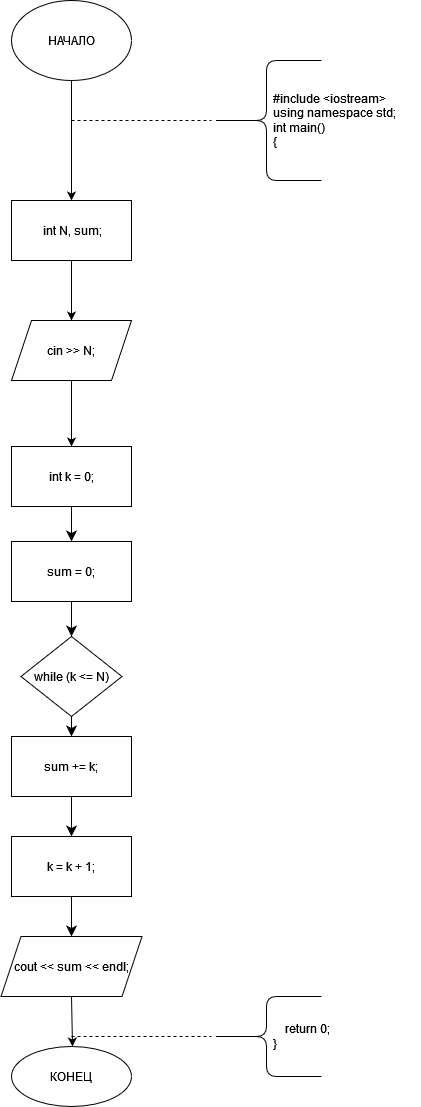
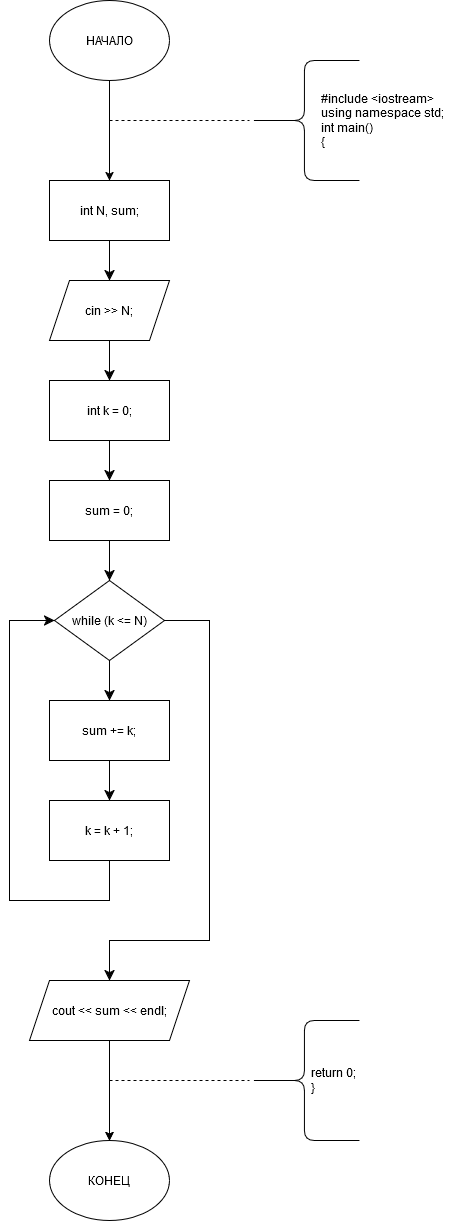
Обновил блок-схемы 2-1,2-2, добавил блок-схемы 2_9, 2_12-2_23

diff --git a/README.md b/README.md
@@ -28,41 +28,43 @@
 
 2_8 - сделано
 
-2_9 - сделано без блок-схемы
+2_9 - сделано
 
 2_10 - сделано
 
 2_11 - сделано
 
-2_12 - сделано без блок-схемы
+2_12 - сделано 
 
-2_13 - сделано без блок-схемы
+2_13 - сделано 
 
-2_14 - сделано без блок-схемы
+2_14 - сделано 
 
-2_15 - сделано без блок-схемы
+2_15 - сделано 
 
-2_16 - сделано без блок-схемы
+2_16 - сделано 
 
-2_17 - сделано без блок-схемы
+2_17 - сделано 
 
-2_18 - сделано без блок-схемы
+2_18 - сделано 
 
-2_19 - сделано без блок-схемы
+2_19 - сделано 
 
-2_20 - сделано без блок-схемы
+2_20 - сделано 
 
-2_21 - сделано без блок-схемы
+2_21 - сделано 
 
-2_22 - сделано без блок-схемы
+2_22 - сделано 
 
-2_23 - сделано без блок-схемы
+2_23 - сделано 
 
-eq_half - сделано без блок-схемы
+eq_half - сделано
 
-eq_newton - сделано без блок-схемы
+eq_newton - сделано 
 
-eq_iteration - сделано без блок-схемы
+eq_iteration - сделано
+
+recursion - не сделано
 
 pointer_1 - сделано 
 
